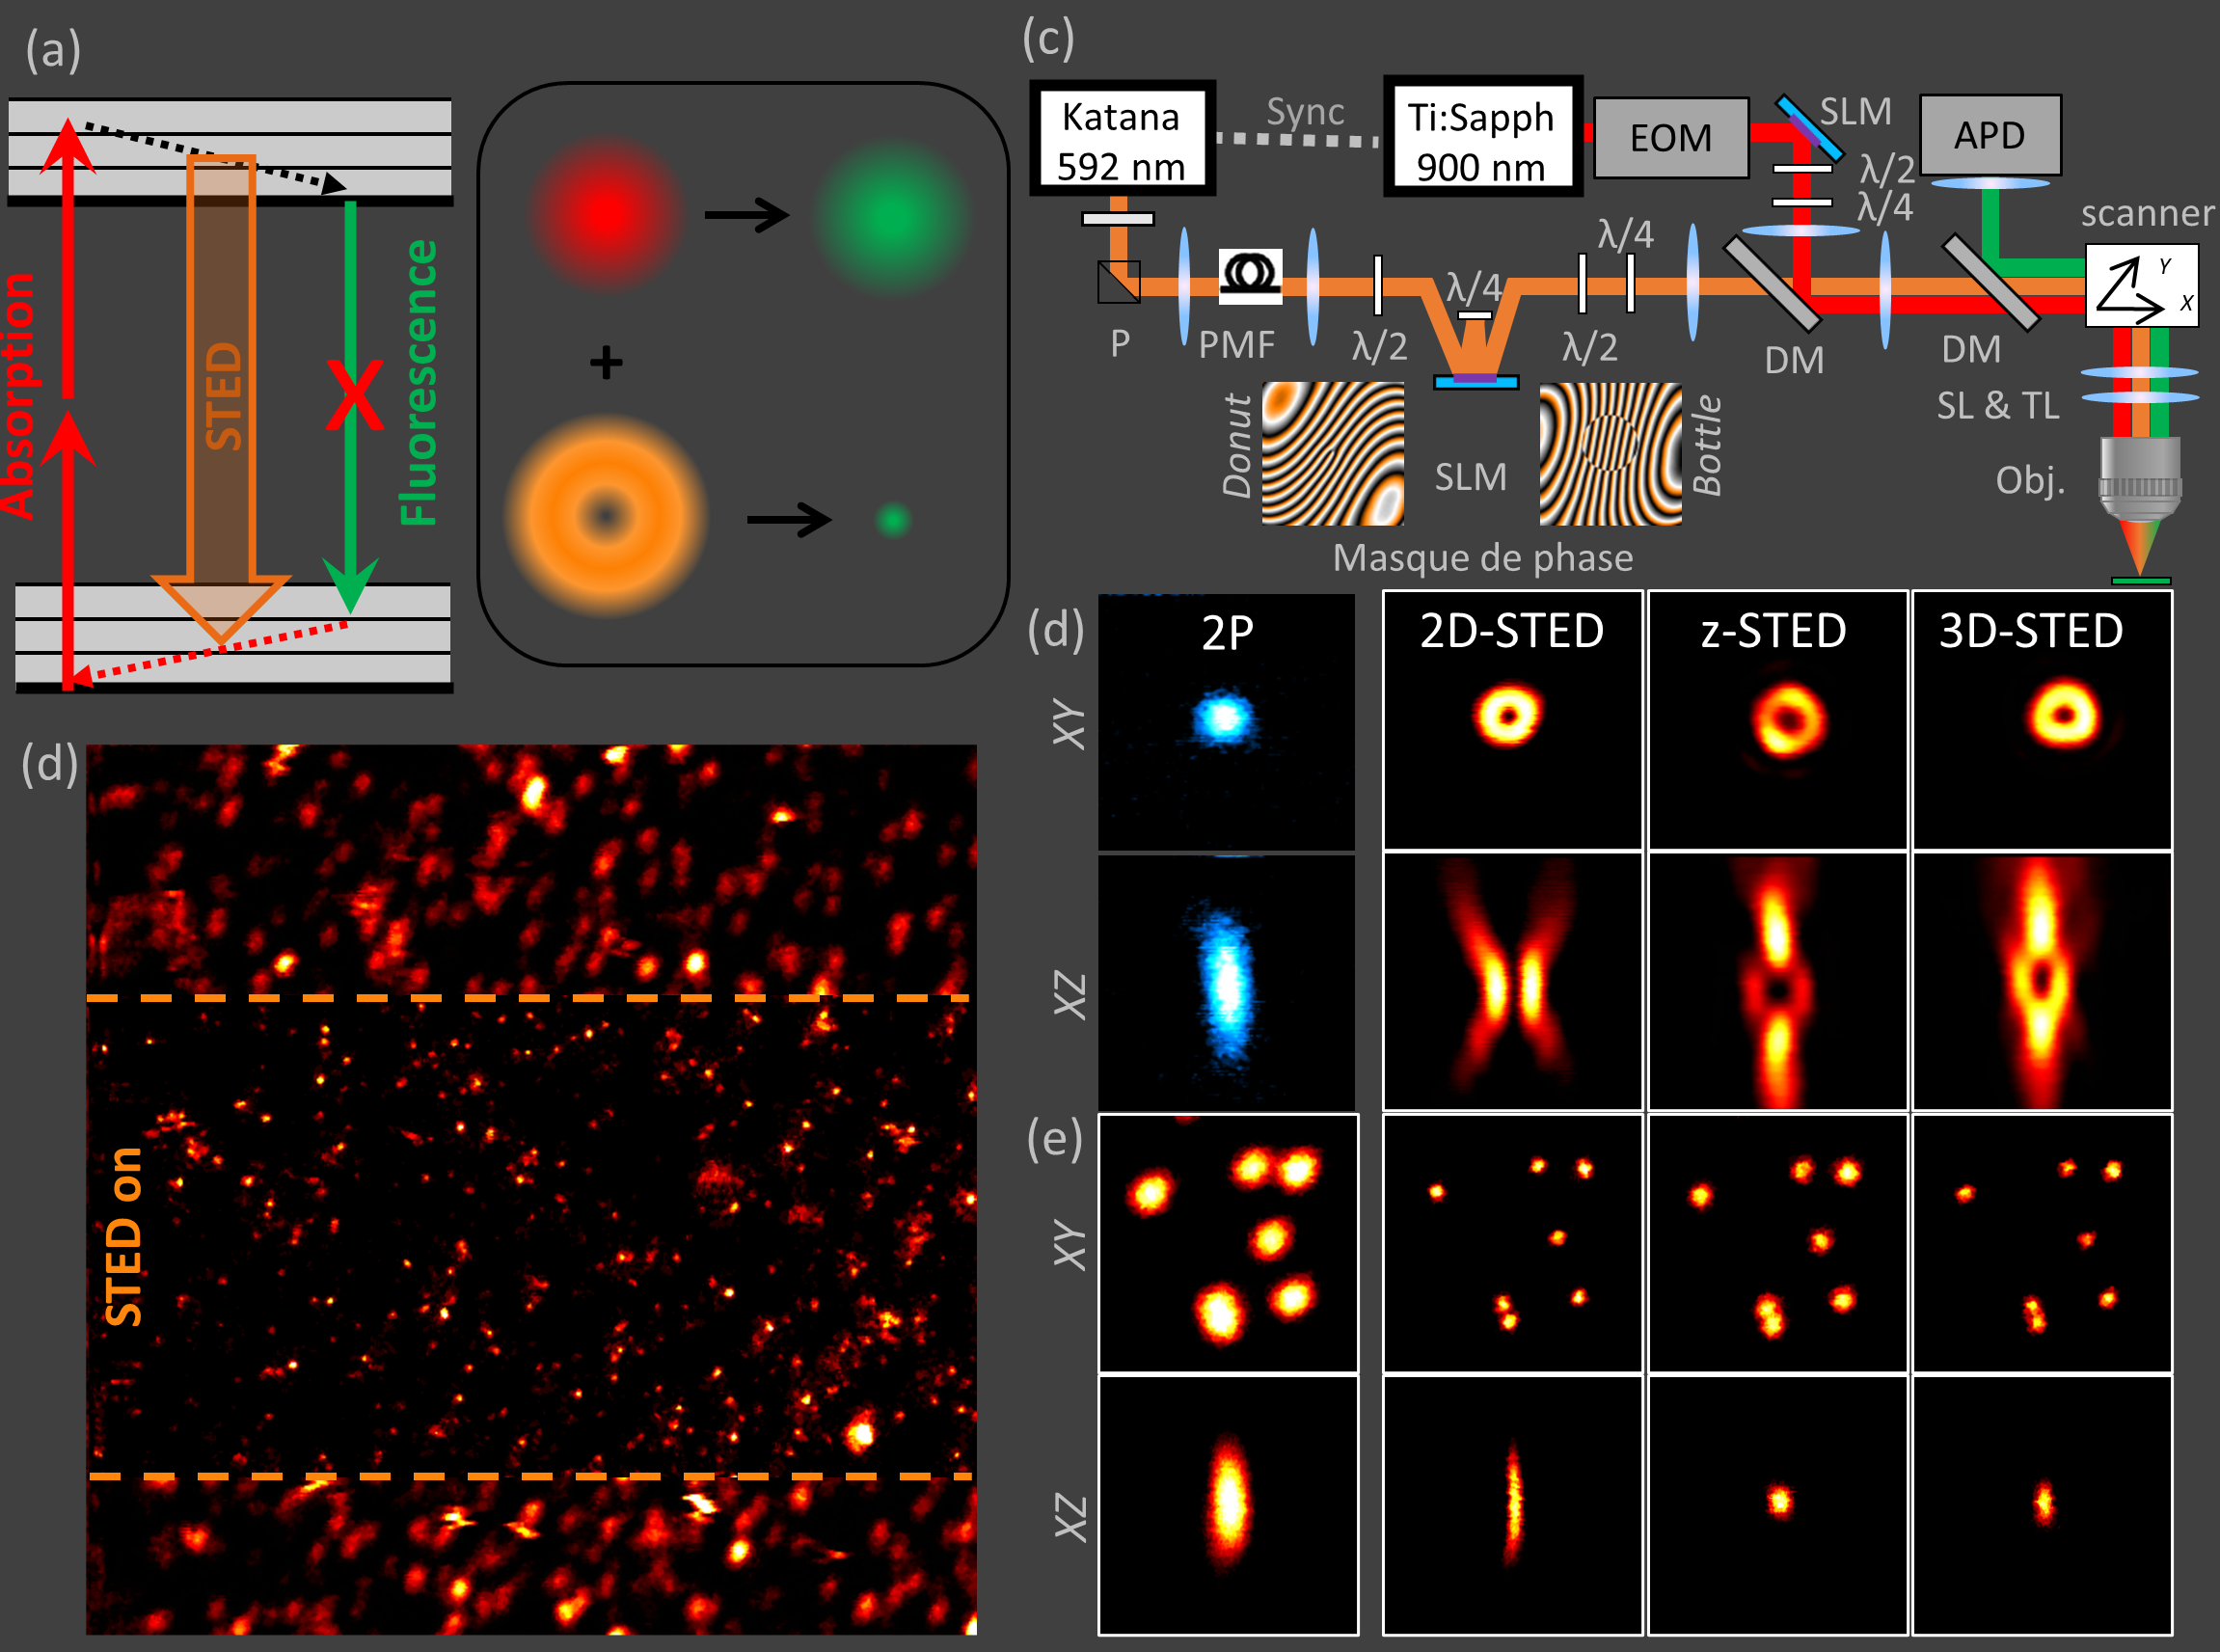
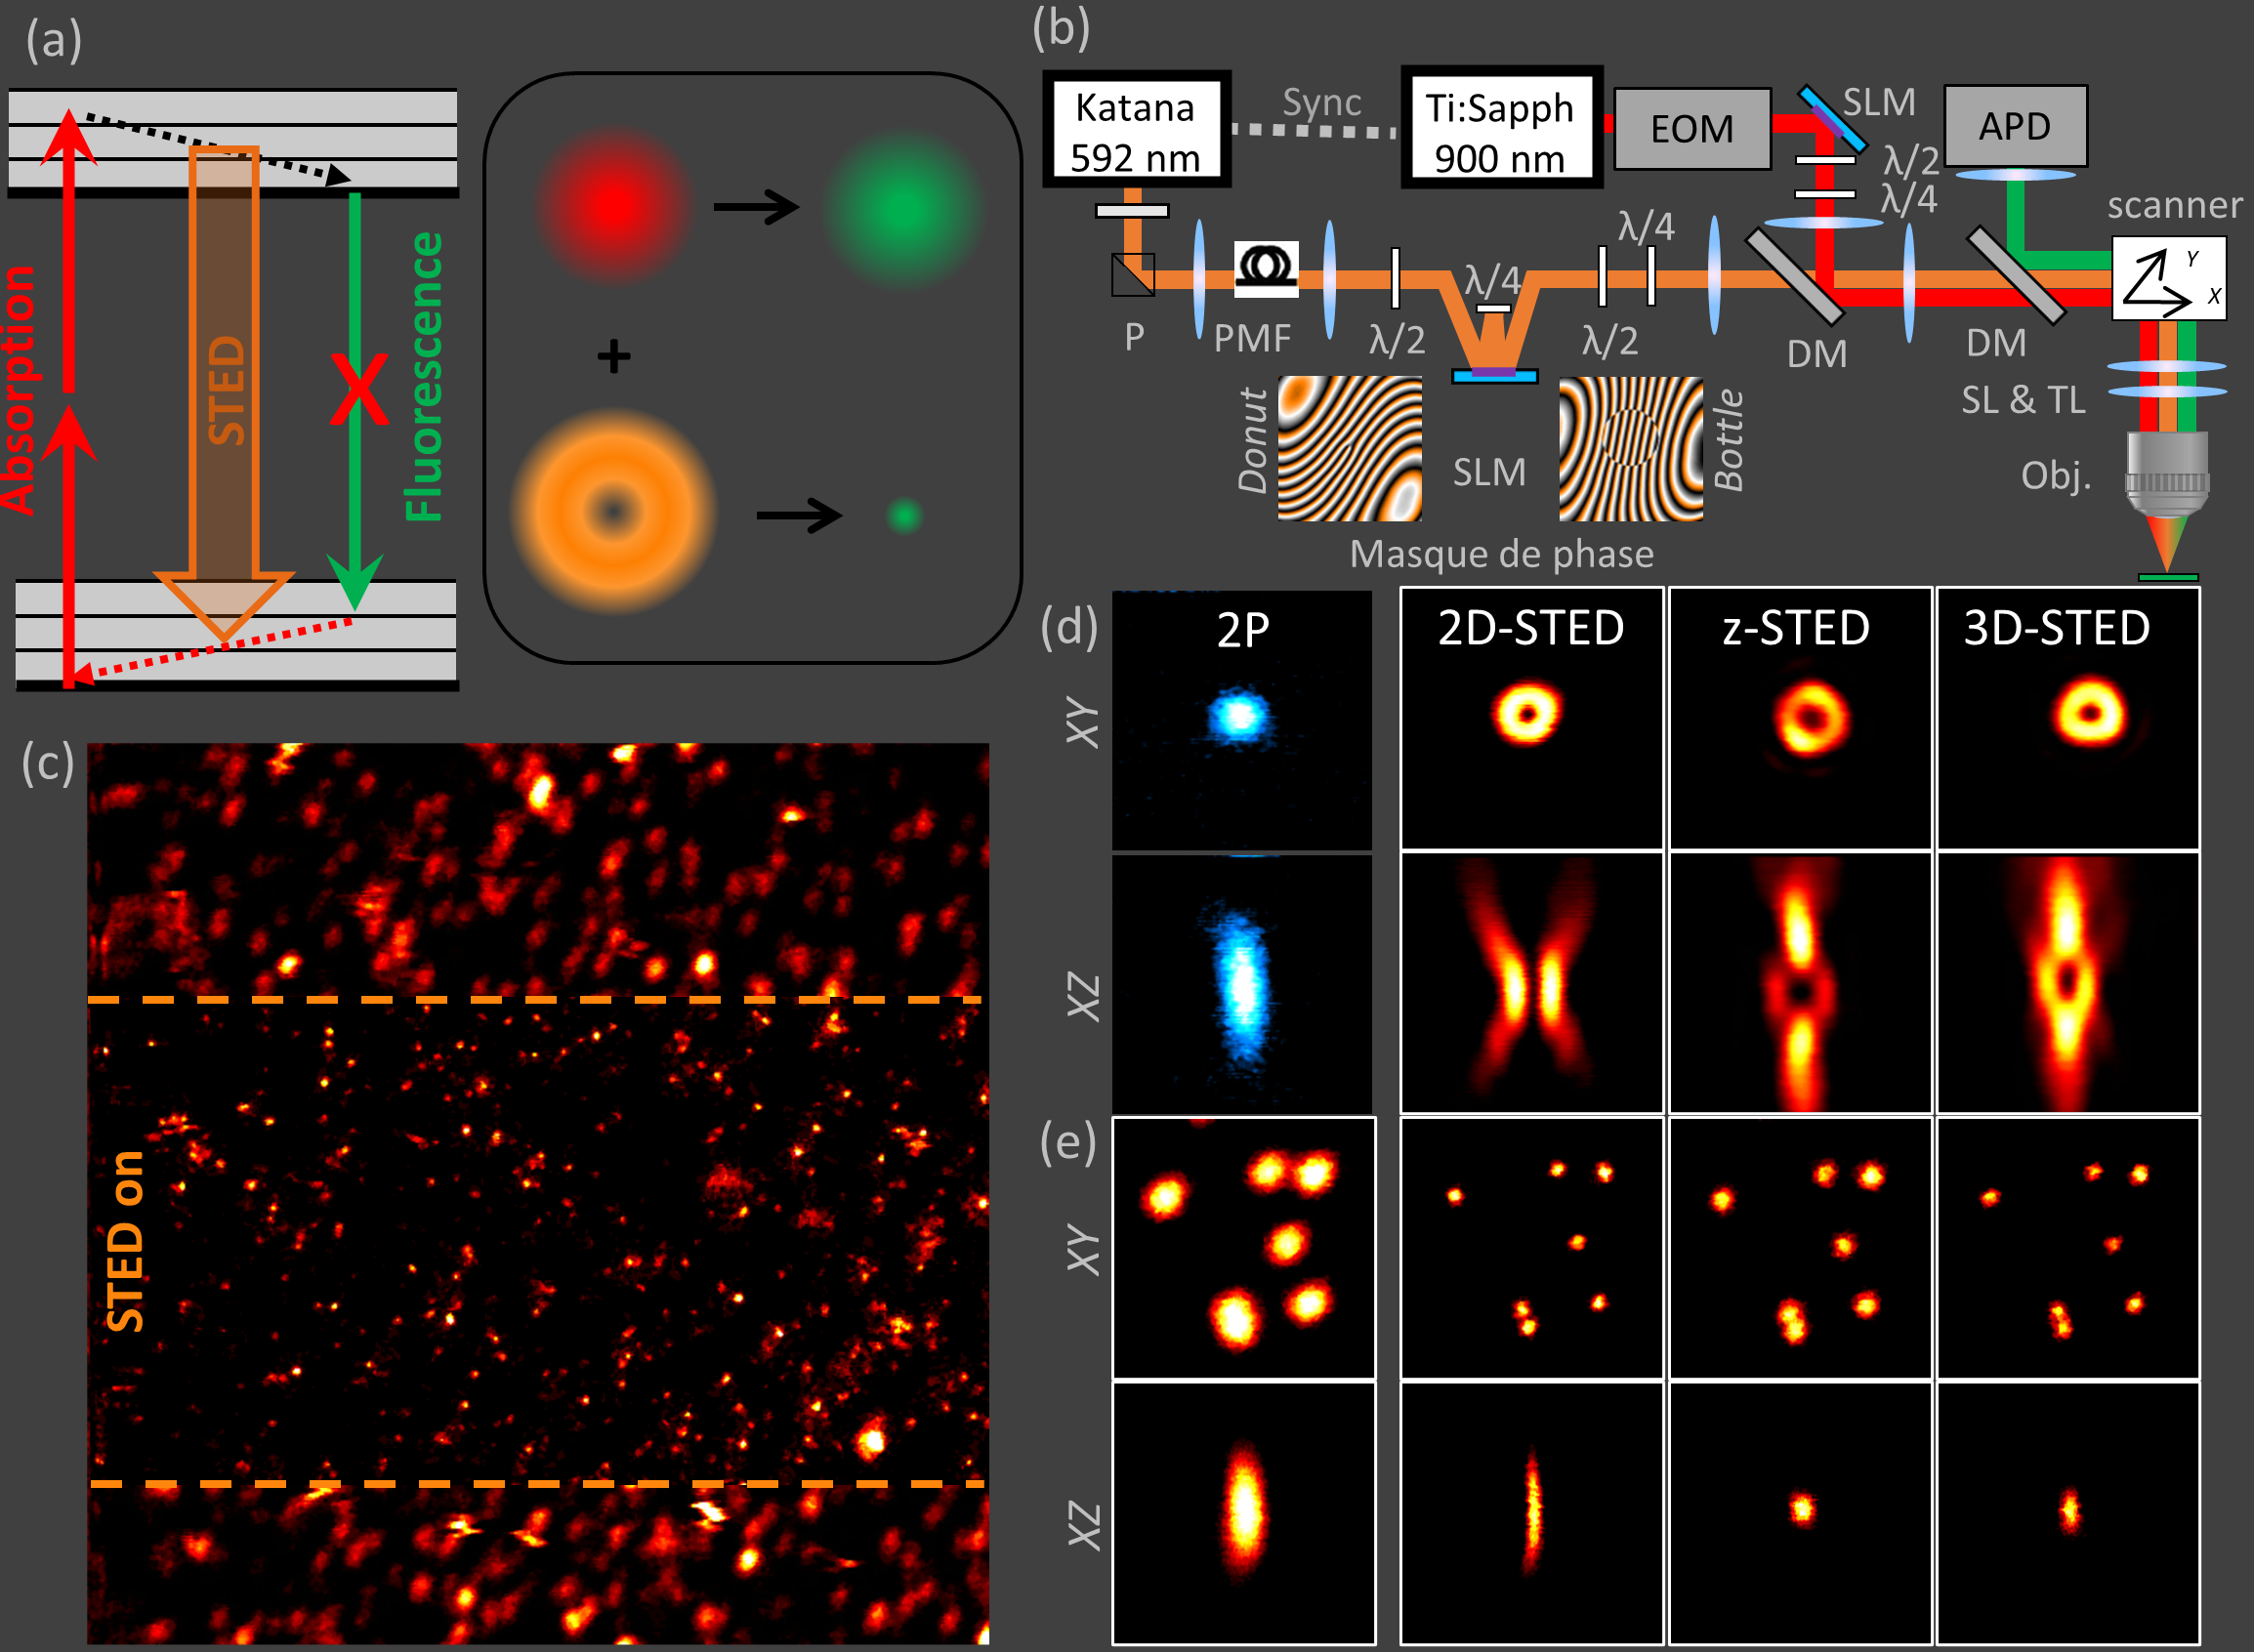
About photo + vocal folds; projets: refs et legendes enrichies
- About: photo de profil (prof_pic.jpg), ajout 'vocal folds'
- Brillouin: Prevedel en fin de §1, double-stage VIPA + ref Zhang 2021, retrait Prevedel du dernier §
- SHG: refs panneaux Fig1 (Thayil, Olivier) et Fig2 (Sharabi, Gusachenko, Miri, Genthial, Bancelin 2015, Strupler); Gosline 2018; Bayan 2009 (orientation index); Bancelin 2015 deplace en Fig3
- CNT: phrase simulations 2P vs 2P-IR
- STED: Fig1 rechargee + legende relabelisee + ref Bancelin 2023
- PSF: refs Roos 2025 (Fig1, Fig2 a-b) et Bancelin 2021 (Fig2 c-e)

diff --git a/_projects/2_shg_connective.md b/_projects/2_shg_connective.md
@@ -13,21 +13,21 @@ Second-harmonic generation (SHG) is a **coherent** nonlinear process in which tw
     {% include figure.liquid loading="eager" path="assets/img/shg_fig1.png" class="img-fluid rounded z-depth-1" %}
   </div>
   <div class="proj-cap">
-    <p class="caption" style="text-align: justify;">Principle of SHG (a): two photons at ω combine coherently into one photon at 2ω; the signal scales with the square of the aligned emitters and cancels for antiparallel arrangements. (b–e) the rare biological sources of SHG, dominated by fibrillar collagen, myosin in skeletal muscle, amylopectin in starch and microtubules in mitotic spindles.</p>
+    <p class="caption" style="text-align: justify;">Principle of SHG (a): two photons at ω combine coherently into one photon at 2ω; the signal scales with the square of the aligned emitters and cancels for antiparallel arrangements. (b–e) the rare biological sources of SHG, dominated by fibrillar collagen, myosin in skeletal muscle, amylopectin in starch (<a href="https://doi.org/10.1117/12.700222">Thayil et al., 2007</a>) and microtubules in mitotic spindles (<a href="https://doi.org/10.1126/science.1189428">Olivier et al., 2010</a>).</p>
   </div>
 </div>
 
-Collagen is the main load-bearing protein of the body, and SHG gives a direct, three-dimensional view of its organisation in **connective tissues** — tendon, ligament, cornea, cartilage, skin, blood vessels. Each tissue has a characteristic collagen architecture that underlies its specific mechanical response: under load, fibres straighten, reorient and slide, producing the non-linear stress–strain behaviour typical of these tissues. By imaging collagen with SHG while the tissue is mechanically tested, we relate microscopic structural changes to the macroscopic **biomechanics** [(Bancelin et al., 2015)](https://doi.org/10.1038/srep17635).
+Collagen is the main load-bearing protein of the body, and SHG gives a direct, three-dimensional view of its organisation in **connective tissues** — tendon, ligament, cornea, cartilage, skin, blood vessels. Each tissue has a characteristic collagen architecture that underlies its specific mechanical response: under load, fibres straighten, reorient and slide, producing the non-linear stress–strain behaviour typical of these tissues (Gosline, 2018). By imaging collagen with SHG while the tissue is mechanically tested, we relate microscopic structural changes to the macroscopic **biomechanics**.
 
 <div class="proj-figrow">
   <div class="proj-cap">
-    <p class="caption" style="text-align: justify;">Collagen-rich connective tissues (a) and their characteristic non-linear stress–strain behaviour (b), set by the reorientation, straightening and sliding of the fibres; (c–h) SHG imaging of collagen across tissues — tendon, cornea, vocal folds, bone, skin and artery.</p>
+    <p class="caption" style="text-align: justify;">Collagen-rich connective tissues (a) and their characteristic non-linear stress–strain behaviour (b) (<a href="https://doi.org/10.3389/fmats.2021.793647">Sharabi, 2022</a>), set by the reorientation, straightening and sliding of the fibres; (c–h) SHG imaging of collagen across tissues — tendon (<a href="https://doi.org/10.1016/j.bpj.2012.03.068">Gusachenko et al., 2012</a>), cornea, vocal folds (<a href="https://doi.org/10.1016/j.actbio.2013.04.044">Miri et al., 2013</a>), bone (<a href="https://doi.org/10.1038/s41598-017-03548-5">Genthial et al., 2017</a>), skin (<a href="https://doi.org/10.1038/srep17635">Bancelin et al., 2015</a>) and artery (<a href="https://doi.org/10.1364/oe.15.004054">Strupler et al., 2007</a>).</p>
   </div>
   <div style="flex: 0 0 60%; max-width: 60%;">
     {% include figure.liquid path="assets/img/shg_fig2.png" class="img-fluid rounded z-depth-1" %}
   </div>
 </div>
 
-Turning these images into numbers requires dedicated **image analysis**. From SHG images we quantify, for example, an orientation index that measures how aligned the collagen fibres are. In **skin**, following this index during a traction assay reveals how the initially crimped, randomly-oriented collagen network progressively straightens and aligns along the loading axis — directly correlating the optical measurement with the successive mechanical regimes of the tissue (toe, heel, linear) up to rupture.
+Turning these images into numbers requires dedicated **image analysis**. From SHG images we quantify, for example, an orientation index [(Bayan et al., 2009)](https://doi.org/10.1063/1.3116626) that measures how aligned the collagen fibres are. In **skin**, following this index during a traction assay reveals how the initially crimped, randomly-oriented collagen network progressively straightens and aligns along the loading axis — directly correlating the optical measurement with the successive mechanical regimes of the tissue (toe, heel, linear) up to rupture.
 
-{% include figure.liquid path="assets/img/shg_fig3.png" class="img-fluid rounded z-depth-1" caption="Image analysis of skin mechanics: the collagen orientation index extracted from SHG images is followed during a traction assay (a, schematic) and correlated with the measured stress–strain response (b), linking fibre reorientation to the mechanical regimes of skin." %}
+{% include figure.liquid path="assets/img/shg_fig3.png" class="img-fluid rounded z-depth-1" caption='Image analysis of skin mechanics: the collagen orientation index extracted from SHG images is followed during a traction assay (a, schematic) and correlated with the measured stress–strain response (b), linking fibre reorientation to the mechanical regimes of skin (<a href="https://doi.org/10.1038/srep17635">Bancelin et al., 2015</a>).' %}

diff --git a/_projects/1_brillouin.md b/_projects/1_brillouin.md
@@ -6,7 +6,7 @@ importance: 1
 category: Current projects
 ---
 
-Brillouin microscopy measures the **mechanical response** of a material all-optically and without any contact [(Scarcelli & Yun, 2008)](https://doi.org/10.1038/nphoton.[phone redacted]). When light propagates through a sample, it is scattered by thermally-driven acoustic waves (phonons): the scattered light is frequency-shifted by ±ν<sub>B</sub> — the Brillouin shift — around the elastic (Rayleigh) line. This shift is directly related to the **longitudinal elastic modulus** (through the speed of sound and the density), while the linewidth reflects the viscosity. Measuring ν<sub>B</sub> point by point yields a quantitative, label-free map of the local stiffness.
+Brillouin microscopy measures the **mechanical response** of a material all-optically and without any contact [(Scarcelli & Yun, 2008)](https://doi.org/10.1038/nphoton.[phone redacted]). When light propagates through a sample, it is scattered by thermally-driven acoustic waves (phonons): the scattered light is frequency-shifted by ±ν<sub>B</sub> — the Brillouin shift — around the elastic (Rayleigh) line. This shift is directly related to the **longitudinal elastic modulus** (through the speed of sound and the density), while the linewidth reflects the viscosity. Measuring ν<sub>B</sub> point by point yields a quantitative, label-free map of the local stiffness [(Prevedel et al., 2019)](https://doi.org/10.1038/s41592-[phone redacted]).
 
 <div class="proj-figrow">
   <div style="flex: 0 0 60%; max-width: 60%;">
@@ -17,7 +17,7 @@ Brillouin microscopy measures the **mechanical response** of a material all-opti
   </div>
 </div>
 
-The main experimental challenge is that the Brillouin signal is extremely weak and sits only a few GHz away from the much stronger elastic line. This calls for a spectrometer that is both high-resolution and high-extinction. We use a **VIPA spectrometer**: a VIPA is a tilted, partially-reflective etalon that angularly disperses the optical frequencies, turning a tiny GHz shift into a measurable displacement on the camera. Crossing two VIPAs and adding a spatial mask rejects the residual elastic light and provides the extinction needed to recover the Brillouin peaks.
+The main experimental challenge is that the Brillouin signal is extremely weak and sits only a few GHz away from the much stronger elastic line. This calls for a spectrometer that is both high-resolution and high-extinction. We use a **double-stage VIPA spectrometer** [(Zhang et al., 2021)](https://doi.org/10.1038/s41596-020-00457-2): a VIPA is a tilted, partially-reflective etalon that angularly disperses the optical frequencies, turning a tiny GHz shift into a measurable displacement on the camera. Crossing two VIPAs and adding a spatial mask rejects the residual elastic light and provides the extinction needed to recover the Brillouin peaks.
 
 <div class="proj-figrow">
   <div class="proj-cap">
@@ -39,4 +39,4 @@ As a proof of concept, we image a polystyrene bead immersed in water: the maps o
   </div>
 </div>
 
-The goal is now to apply this approach to **soft connective tissues** — vocal cords, cartilage, cornea — to probe their biomechanics in situ [(Prevedel et al., 2019)](https://doi.org/10.1038/s41592-019-0543-3). Combined with **second-harmonic generation** imaging of the collagen network, Brillouin microscopy lets us correlate the architecture of the tissue with its local mechanical properties, linking structure and function at the microscale.
+The goal is now to apply this approach to **soft connective tissues** — vocal cords, cartilage, cornea — to probe their biomechanics in situ. Combined with **second-harmonic generation** imaging of the collagen network, Brillouin microscopy lets us correlate the architecture of the tissue with its local mechanical properties, linking structure and function at the microscale.

diff --git a/_pages/about.md b/_pages/about.md
@@ -6,7 +6,7 @@ subtitle:
 
 profile:
   align: right
-  image: microscope_icon_green.svg
+  image: prof_pic.jpg
   image_circular: false # crops the image to make it circular
   more_info: >
     <p><strong> CNRS Researcher </strong></p>
@@ -30,7 +30,7 @@ latest_posts:
 
 I am a researcher in nonlinear and super-resolution optical microscopy at the [Laboratoire Photonique, Numérique et Nanosciences (LP2N)](https://www.lp2n.institutoptique.fr/) in Talence, France. I build advanced imaging methods to look at biological tissues with as much detail — and as little perturbation — as possible.
 
-Second-harmonic generation (SHG) microscopy is at the core of my research. I use it to image and quantify the organization of collagen in tissues such as cornea, skin and tendon, linking optical signals to fibrillar structure and biomechanics.
+Second-harmonic generation (SHG) microscopy is at the core of my research. I use it to image and quantify the organization of collagen in tissues such as cornea, skin, vocal folds and tendon, linking optical signals to fibrillar structure and biomechanics.
 
 I later worked on super-resolution STED imaging in the living mouse brain, developing instrumentation and analysis tools — from aberration correction and PSF characterization to real-time acquisition workflows — to study neuronal structures such as dendritic spines in their native environment.
 

diff --git a/_projects/6_psf_simulations.md b/_projects/6_psf_simulations.md
@@ -13,7 +13,7 @@ In STED microscopy, resolution is created by a doughnut-shaped depletion beam th
     {% include figure.liquid loading="eager" path="assets/img/psf_fig1.png" class="img-fluid rounded z-depth-1" %}
   </div>
   <div class="proj-cap">
-    <p class="caption" style="text-align: justify;">FASER: (a) vectorial focusing model accounting for polarization and refractive-index mismatch, (b) the Napari-based interface, and (c) simulated PSFs (xy and xz) for different polarization states and degrees of depolarization.</p>
+    <p class="caption" style="text-align: justify;">FASER: (a) vectorial focusing model accounting for polarization and refractive-index mismatch, (b) the Napari-based interface, and (c) simulated PSFs (xy and xz) for different polarization states and degrees of depolarization (<a href="https://doi.org/10.1117/1.nph.12.1.017801">Roos et al., 2025</a>).</p>
   </div>
 </div>
 
@@ -21,7 +21,7 @@ Deep inside tissue, optical aberrations distort the doughnut, fill in its centra
 
 <div class="proj-figrow">
   <div class="proj-cap">
-    <p class="caption" style="text-align: justify;">Effect of aberrations on the STED PSF (a–b) and depth-dependent aberration correction: the optimal correction varies linearly with depth (c), restoring signal (d) and preserving resolution (mean spine-neck diameter) far deeper than the uncorrected case (e).</p>
+    <p class="caption" style="text-align: justify;">Effect of aberrations on the STED PSF (a–b) (<a href="https://doi.org/10.1117/1.nph.12.1.017801">Roos et al., 2025</a>) and depth-dependent aberration correction: the optimal correction varies linearly with depth (c), restoring signal (d) and preserving resolution (mean spine-neck diameter) far deeper than the uncorrected case (e) (<a href="https://doi.org/10.1117/1.nph.8.3.035001">Bancelin et al., 2021</a>).</p>
   </div>
   <div style="flex: 0 0 60%; max-width: 60%;">
     {% include figure.liquid path="assets/img/psf_fig2.png" class="img-fluid rounded z-depth-1" %}

diff --git a/_projects/4_carbon_nanotubes.md b/_projects/4_carbon_nanotubes.md
@@ -28,7 +28,7 @@ Imaging deep inside biological tissue is limited by the scattering and absorptio
   </div>
 </div>
 
-Building a dedicated infrared multiphoton microscope, we then demonstrate the **two-photon imaging of carbon nanotubes**, exploiting their near-infrared luminescence together with the depth and contrast advantages of multiphoton excitation.
+Building a dedicated infrared multiphoton microscope, we then demonstrate the **two-photon imaging of carbon nanotubes**, exploiting their near-infrared luminescence together with the depth and contrast advantages of multiphoton excitation. In parallel, we run numerical simulations to compare standard two-photon excitation with two-photon excitation in the short-wave infrared (2P-IR), in order to identify the most favourable imaging regime.
 
 <div class="proj-figrow">
   <div style="flex: 0 0 60%; max-width: 60%;">